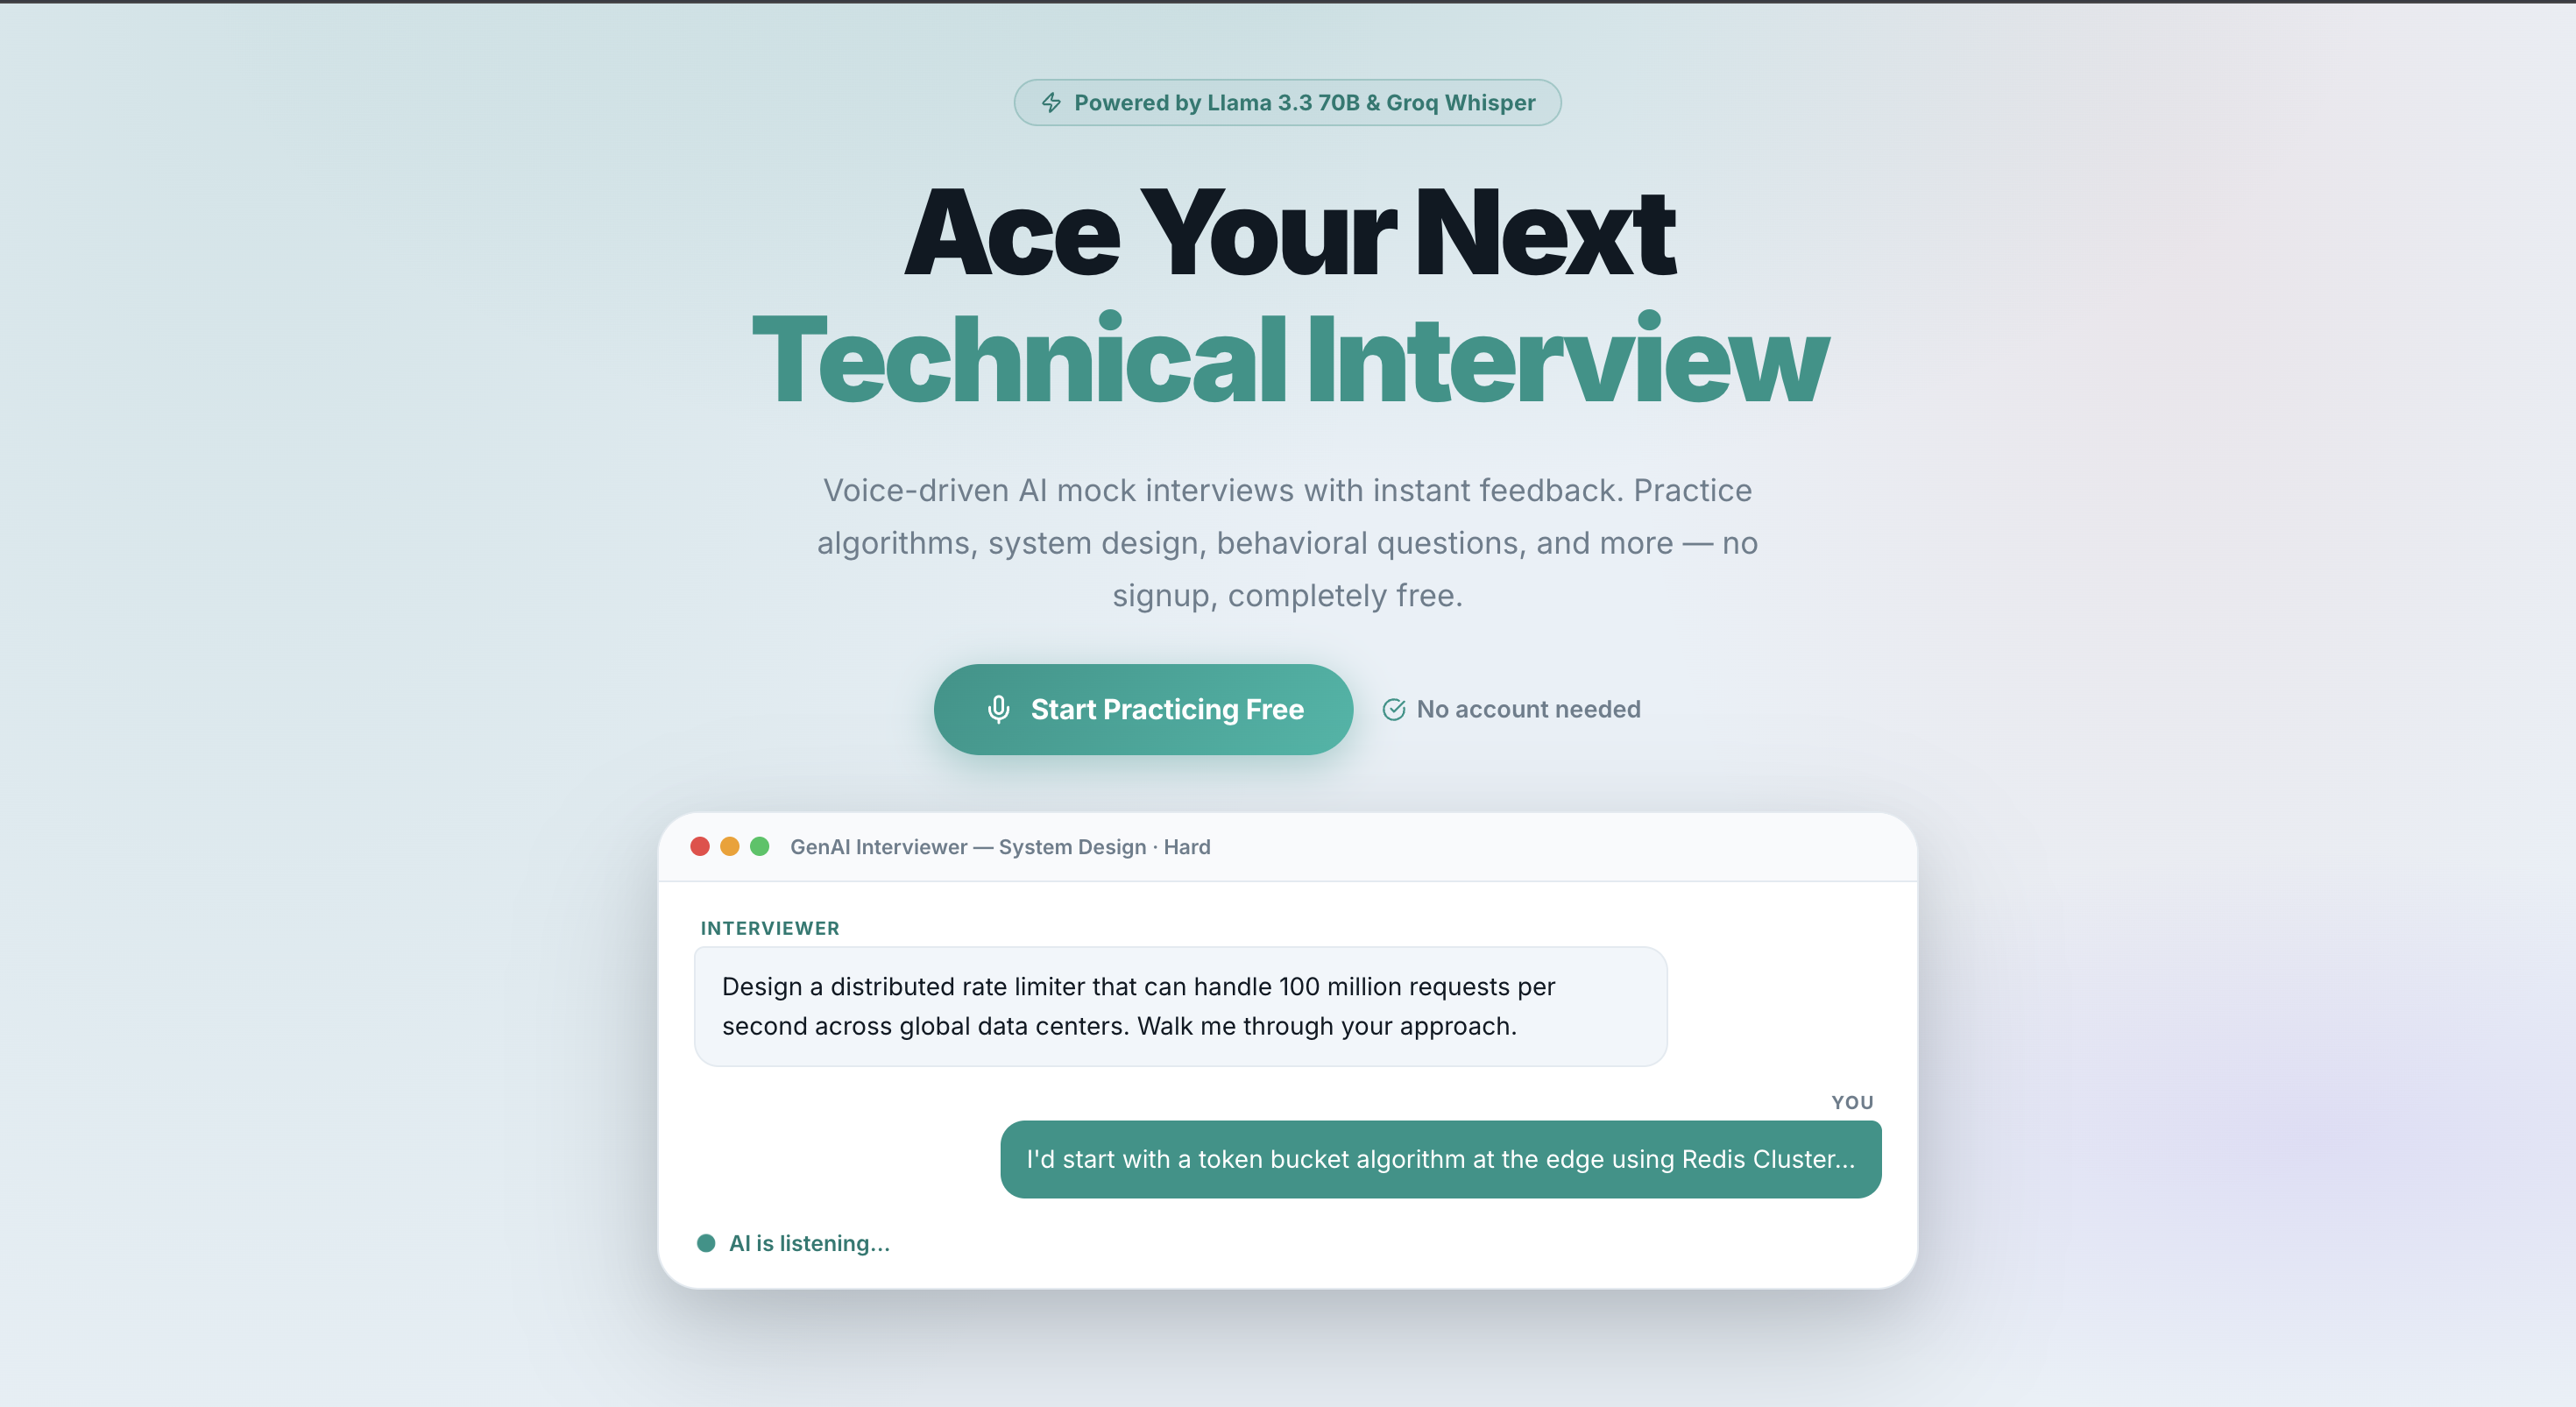
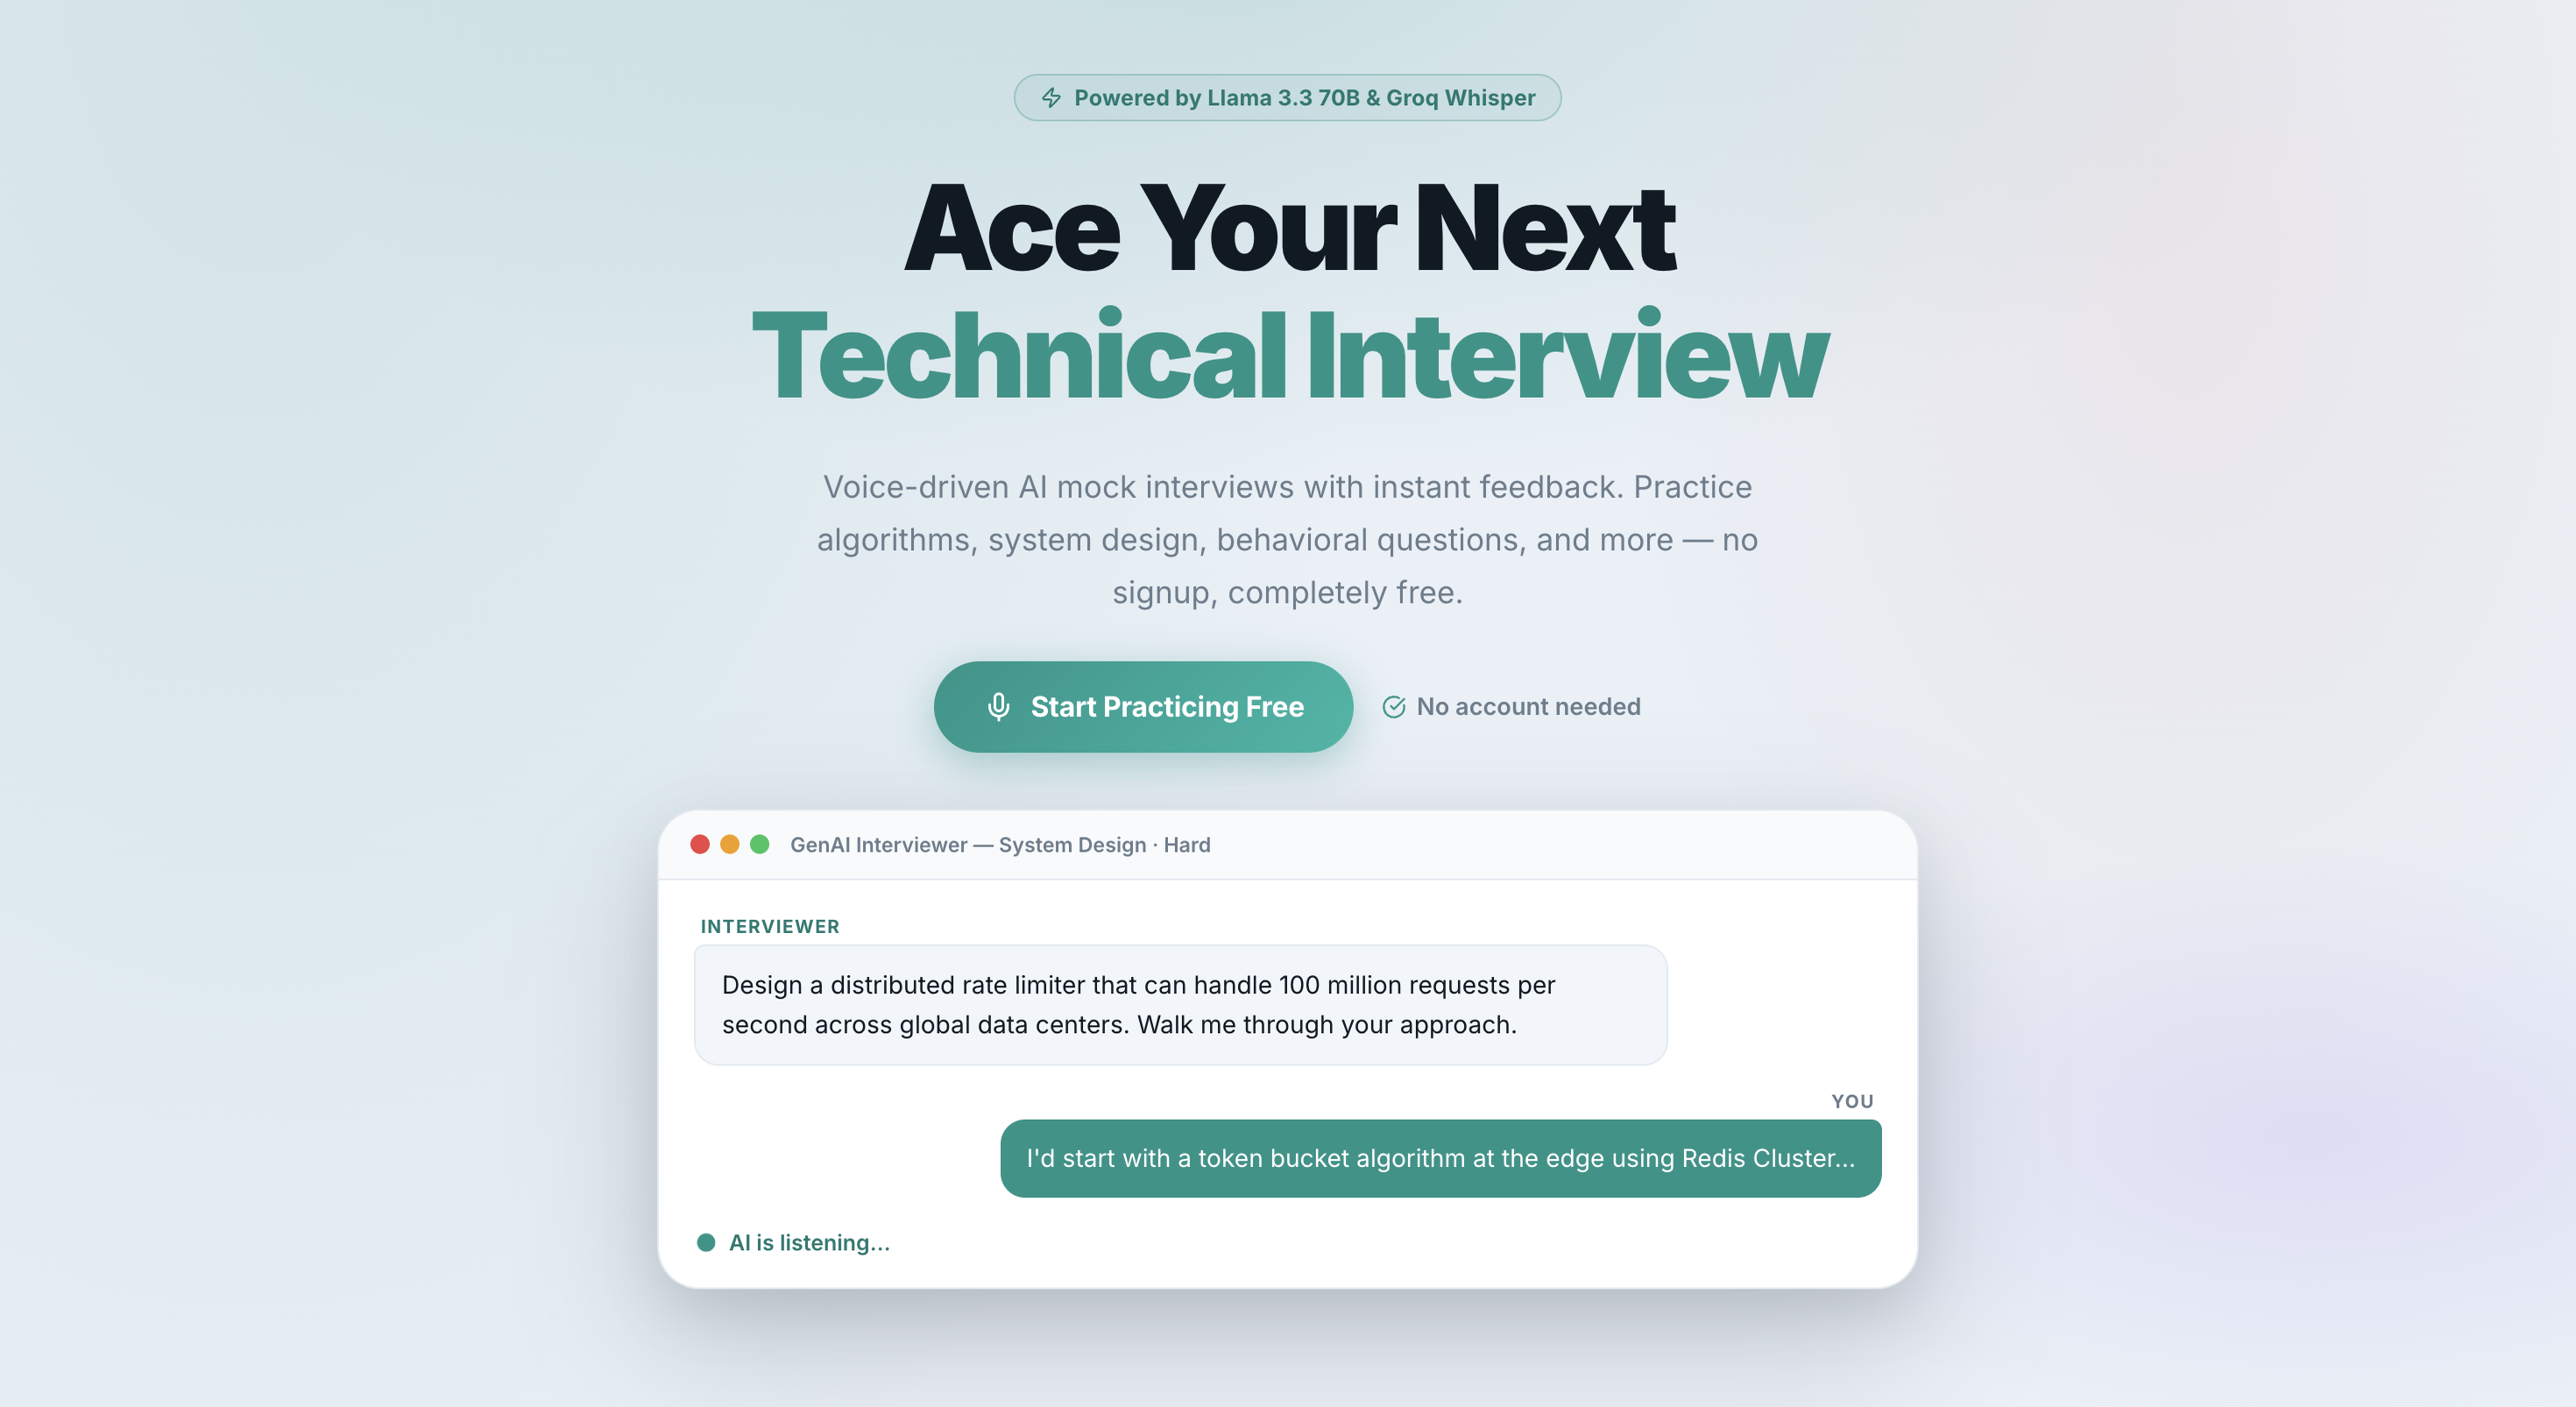
Update Nexus preview video and fix video/image zoom on Nexus & GenAI cards
- Replace Nexus preview.mp4 with new demo footage (converted from .mov)
- Zoom out Nexus and GenAI project videos to match their images
- Nudge GenAI preview down slightly and crop a stray dark line from its top edge

diff --git a/index.html b/index.html
@@ -818,6 +818,18 @@
       padding: .25rem .6rem;
     }
 
+    .project-item[data-href="https://supply-chain-visualizer.onrender.com/"] .project-img img,
+    .project-item[data-href="https://supply-chain-visualizer.onrender.com/"] .project-img video {
+      object-position: center top;
+      transform: scale(1);
+    }
+
+    .project-item[data-href="https://genai-technical-interviewer-1.onrender.com/"] .project-img img,
+    .project-item[data-href="https://genai-technical-interviewer-1.onrender.com/"] .project-img video {
+      object-position: center 54%;
+      transform: scale(1);
+    }
+
     .project-item[data-href="https://jetset-franchise-intelligence.onrender.com/"] .project-img img,
     .project-item[data-href="https://jetset-franchise-intelligence.onrender.com/"] .project-img video {
       object-position: center 30%;
@@ -1023,6 +1035,33 @@
     }
 
 
+    .proj-caption {
+      position: absolute;
+      bottom: 16rem;
+      right: -8.5rem;
+      font-family: Caveat, cursive;
+      font-size: 1.3rem;
+      color: var(--teal);
+      max-width: 9rem;
+      text-align: right;
+      line-height: 1.2;
+      pointer-events: none;
+      transform: rotate(4deg);
+    }
+
+    .proj-caption-arrow {
+      position: absolute;
+      bottom: 14.5rem;
+      right: -4.25rem;
+      width: 4.5rem;
+      height: 4.5rem;
+      object-fit: contain;
+      transform: rotate(-90deg);
+      filter: invert(58%) sepia(60%) saturate(400%) hue-rotate(130deg) brightness(45%);
+      pointer-events: none;
+    }
+
+
     /* ── CONTACT ── */
     #contact {
       background: #ffffff;
@@ -1107,18 +1146,12 @@
     }
 
     /* ── CONTACT ALT LINKS ── */
-    .contact-divider {
-      width: 6rem;
-      height: 1.5px;
-      background: var(--teal);
-      margin: 1.8rem auto 1.8rem;
-    }
-
     .contact-alt-links {
       display: flex;
       gap: 1.6rem;
       justify-content: center;
       align-items: center;
+      margin-top: 1.8rem;
     }
 
     .contact-alt-links a {
@@ -1398,6 +1431,8 @@
       .projects-featured-col { flex-direction: column; width: 100%; margin-left: 0; }
       .projects-small-grid { grid-template-columns: 1fr; }
       .proj-note { display: none; }
+      .proj-caption { display: none; }
+      .proj-caption-arrow { display: none; }
 
       #contact { padding-left: 1.5rem; padding-right: 1.5rem; }
       .project-actions { margin-top: .2rem; }
@@ -1563,8 +1598,8 @@
             <video src="media/nexus/preview.mp4" muted loop playsinline></video>
           </div>
           <div class="project-name">Nexus: Full-Stack Supply Chain Visualizer</div>
-          <div class="project-tags"><span class="project-tag">Full-Stack</span><span class="project-tag">REST API</span><span class="project-tag">JWT Auth</span><span class="project-tag">Docker</span></div>
-          <div class="project-desc">Supply chain platform with 25+ REST endpoints.</div>
+          <div class="project-tags"><span class="project-tag">Spring Boot</span><span class="project-tag">React</span><span class="project-tag">PostgreSQL</span><span class="project-tag">JWT Auth</span><span class="project-tag">Docker</span></div>
+          <div class="project-desc">Full-stack supply chain platform with 40+ REST endpoints.</div>
           <div class="project-actions">
             <a class="btn-proj" href="https://github.com/mariarodr1136/SupplyChainVisualizer" target="_blank" rel="noopener"><svg xmlns="http://www.w3.org/2000/svg" width="12" height="12" viewBox="0 0 24 24" fill="currentColor"><path d="M12 .297c-6.63 0-12 5.373-12 12 0 5.303 3.438 9.8 8.205 11.385.6.113.82-.258.82-.577 0-.285-.01-1.04-.015-2.04-3.338.724-4.042-1.61-4.042-1.61C4.422 18.07 3.633 17.7 3.633 17.7c-1.087-.744.084-.729.084-.729 1.205.084 1.838 1.236 1.838 1.236 1.07 1.835 2.809 1.305 3.495.998.108-.776.417-1.305.76-1.605-2.665-.3-5.466-1.332-5.466-5.93 0-1.31.465-2.38 1.235-3.22-.135-.303-.54-1.523.105-3.176 0 0 1.005-.322 3.3 1.23.96-.267 1.98-.399 3-.405 1.02.006 2.04.138 3 .405 2.28-1.552 3.285-1.23 3.285-1.23.645 1.653.24 2.873.12 3.176.765.84 1.23 1.91 1.23 3.22 0 4.61-2.805 5.625-5.475 5.92.42.36.81 1.096.81 2.22 0 1.606-.015 2.896-.015 3.286 0 .315.21.69.825.57C20.565 22.092 24 17.592 24 12.297c0-6.627-5.373-12-12-12"/></svg> Repo</a>
             <a class="btn-proj" href="https://supply-chain-visualizer.onrender.com/" target="_blank" rel="noopener">↗ Live Demo</a>
@@ -1577,8 +1612,8 @@
             <video src="media/genai/preview.mp4" muted loop playsinline></video>
           </div>
           <div class="project-name">GenAI: Voice AI Mock Interviewer</div>
-          <div class="project-tags"><span class="project-tag">Groq</span><span class="project-tag">Whisper v3</span><span class="project-tag">LLM Pipeline</span><span class="project-tag">Voice AI</span></div>
-          <div class="project-desc">AI mock interviews powered by Groq Whisper.</div>
+          <div class="project-tags"><span class="project-tag">Groq</span><span class="project-tag">Whisper Large v3</span><span class="project-tag">Qwen3.6-27B</span><span class="project-tag">React</span><span class="project-tag">Node/Express</span></div>
+          <div class="project-desc">Real-time mock interviews with streaming voice transcription and AI feedback.</div>
           <div class="project-actions">
             <a class="btn-proj" href="https://github.com/mariarodr1136/GenAI-Technical-Interviewer" target="_blank" rel="noopener"><svg xmlns="http://www.w3.org/2000/svg" width="12" height="12" viewBox="0 0 24 24" fill="currentColor"><path d="M12 .297c-6.63 0-12 5.373-12 12 0 5.303 3.438 9.8 8.205 11.385.6.113.82-.258.82-.577 0-.285-.01-1.04-.015-2.04-3.338.724-4.042-1.61-4.042-1.61C4.422 18.07 3.633 17.7 3.633 17.7c-1.087-.744.084-.729.084-.729 1.205.084 1.838 1.236 1.838 1.236 1.07 1.835 2.809 1.305 3.495.998.108-.776.417-1.305.76-1.605-2.665-.3-5.466-1.332-5.466-5.93 0-1.31.465-2.38 1.235-3.22-.135-.303-.54-1.523.105-3.176 0 0 1.005-.322 3.3 1.23.96-.267 1.98-.399 3-.405 1.02.006 2.04.138 3 .405 2.28-1.552 3.285-1.23 3.285-1.23.645 1.653.24 2.873.12 3.176.765.84 1.23 1.91 1.23 3.22 0 4.61-2.805 5.625-5.475 5.92.42.36.81 1.096.81 2.22 0 1.606-.015 2.896-.015 3.286 0 .315.21.69.825.57C20.565 22.092 24 17.592 24 12.297c0-6.627-5.373-12-12-12"/></svg> Repo</a>
             <a class="btn-proj" href="https://genai-technical-interviewer-1.onrender.com/" target="_blank" rel="noopener">↗ Live Demo</a>
@@ -1591,8 +1626,8 @@
             <video src="media/jetset/preview.mp4" muted loop playsinline></video>
           </div>
           <div class="project-name">JETSET: Franchise Intelligence Dashboard</div>
-          <div class="project-tags"><span class="project-tag">Gemini AI</span><span class="project-tag">SSE</span><span class="project-tag">Machine Learning</span></div>
-          <div class="project-desc">Real-time SSE dashboard with a churn model scoring 15K+ members.</div>
+          <div class="project-tags"><span class="project-tag">Next.js</span><span class="project-tag">Gemini 2.5 Flash</span><span class="project-tag">SSE</span><span class="project-tag">Prisma/SQLite</span><span class="project-tag">FTS5 Search</span></div>
+          <div class="project-desc">Real-time SSE dashboard with churn scoring (0.84 AUC) across 69 studios.</div>
           <div class="project-actions">
             <a class="btn-proj" href="https://github.com/mariarodr1136/JETSET-Franchise-Intelligence" target="_blank" rel="noopener"><svg xmlns="http://www.w3.org/2000/svg" width="12" height="12" viewBox="0 0 24 24" fill="currentColor"><path d="M12 .297c-6.63 0-12 5.373-12 12 0 5.303 3.438 9.8 8.205 11.385.6.113.82-.258.82-.577 0-.285-.01-1.04-.015-2.04-3.338.724-4.042-1.61-4.042-1.61C4.422 18.07 3.633 17.7 3.633 17.7c-1.087-.744.084-.729.084-.729 1.205.084 1.838 1.236 1.838 1.236 1.07 1.835 2.809 1.305 3.495.998.108-.776.417-1.305.76-1.605-2.665-.3-5.466-1.332-5.466-5.93 0-1.31.465-2.38 1.235-3.22-.135-.303-.54-1.523.105-3.176 0 0 1.005-.322 3.3 1.23.96-.267 1.98-.399 3-.405 1.02.006 2.04.138 3 .405 2.28-1.552 3.285-1.23 3.285-1.23.645 1.653.24 2.873.12 3.176.765.84 1.23 1.91 1.23 3.22 0 4.61-2.805 5.625-5.475 5.92.42.36.81 1.096.81 2.22 0 1.606-.015 2.896-.015 3.286 0 .315.21.69.825.57C20.565 22.092 24 17.592 24 12.297c0-6.627-5.373-12-12-12"/></svg> Repo</a>
             <a class="btn-proj" href="https://jetset-franchise-intelligence.onrender.com/" target="_blank" rel="noopener">↗ Live Demo</a>
@@ -1608,8 +1643,8 @@
             <video src="media/atmosphere/preview.mp4" muted loop playsinline></video>
           </div>
           <div class="project-name">Atmosphere: Real-Time AQI Monitor</div>
-          <div class="project-tags"><span class="project-tag">WebSockets</span><span class="project-tag">Redis</span><span class="project-tag">Anomaly Detection</span></div>
-          <div class="project-desc">Live AQI dashboard with WebSockets and anomaly detection.</div>
+          <div class="project-tags"><span class="project-tag">Django Channels</span><span class="project-tag">Redis</span><span class="project-tag">Z-Score Detection</span></div>
+          <div class="project-desc">Live weather &amp; AQI dashboard with z-score anomaly detection.</div>
           <div class="project-actions">
             <a class="btn-proj" href="https://github.com/mariarodr1136/AtmosphereAnalyzer" target="_blank" rel="noopener"><svg xmlns="http://www.w3.org/2000/svg" width="12" height="12" viewBox="0 0 24 24" fill="currentColor"><path d="M12 .297c-6.63 0-12 5.373-12 12 0 5.303 3.438 9.8 8.205 11.385.6.113.82-.258.82-.577 0-.285-.01-1.04-.015-2.04-3.338.724-4.042-1.61-4.042-1.61C4.422 18.07 3.633 17.7 3.633 17.7c-1.087-.744.084-.729.084-.729 1.205.084 1.838 1.236 1.838 1.236 1.07 1.835 2.809 1.305 3.495.998.108-.776.417-1.305.76-1.605-2.665-.3-5.466-1.332-5.466-5.93 0-1.31.465-2.38 1.235-3.22-.135-.303-.54-1.523.105-3.176 0 0 1.005-.322 3.3 1.23.96-.267 1.98-.399 3-.405 1.02.006 2.04.138 3 .405 2.28-1.552 3.285-1.23 3.285-1.23.645 1.653.24 2.873.12 3.176.765.84 1.23 1.91 1.23 3.22 0 4.61-2.805 5.625-5.475 5.92.42.36.81 1.096.81 2.22 0 1.606-.015 2.896-.015 3.286 0 .315.21.69.825.57C20.565 22.092 24 17.592 24 12.297c0-6.627-5.373-12-12-12"/></svg> Repo</a>
             <a class="btn-proj" href="https://atmosphere-analyzer-dashboard.onrender.com/" target="_blank" rel="noopener">↗ Live Demo</a>
@@ -1622,8 +1657,8 @@
             <video src="media/leafmedic/preview.mp4" muted loop playsinline></video>
           </div>
           <div class="project-name">LeafMedic: Plant Disease Classifier</div>
-          <div class="project-tags"><span class="project-tag">Raspberry Pi</span><span class="project-tag">TensorFlow Lite</span><span class="project-tag">Computer Vision</span></div>
-          <div class="project-desc">Real-time plant disease classifier on a Raspberry Pi.</div>
+          <div class="project-tags"><span class="project-tag">Raspberry Pi</span><span class="project-tag">TensorFlow Lite</span><span class="project-tag">MobileNetV1</span></div>
+          <div class="project-desc">Real-time 16-class disease classifier on a Raspberry Pi 4.</div>
           <div class="project-actions">
             <a class="btn-proj" href="https://github.com/mariarodr1136/LeafMedic" target="_blank" rel="noopener"><svg xmlns="http://www.w3.org/2000/svg" width="12" height="12" viewBox="0 0 24 24" fill="currentColor"><path d="M12 .297c-6.63 0-12 5.373-12 12 0 5.303 3.438 9.8 8.205 11.385.6.113.82-.258.82-.577 0-.285-.01-1.04-.015-2.04-3.338.724-4.042-1.61-4.042-1.61C4.422 18.07 3.633 17.7 3.633 17.7c-1.087-.744.084-.729.084-.729 1.205.084 1.838 1.236 1.838 1.236 1.07 1.835 2.809 1.305 3.495.998.108-.776.417-1.305.76-1.605-2.665-.3-5.466-1.332-5.466-5.93 0-1.31.465-2.38 1.235-3.22-.135-.303-.54-1.523.105-3.176 0 0 1.005-.322 3.3 1.23.96-.267 1.98-.399 3-.405 1.02.006 2.04.138 3 .405 2.28-1.552 3.285-1.23 3.285-1.23.645 1.653.24 2.873.12 3.176.765.84 1.23 1.91 1.23 3.22 0 4.61-2.805 5.625-5.475 5.92.42.36.81 1.096.81 2.22 0 1.606-.015 2.896-.015 3.286 0 .315.21.69.825.57C20.565 22.092 24 17.592 24 12.297c0-6.627-5.373-12-12-12"/></svg> Repo</a>
           </div>
@@ -1635,8 +1670,8 @@
             <video src="media/vestlab/preview.mp4" muted loop playsinline></video>
           </div>
           <div class="project-name">VestLab: Micro-Investment Platform</div>
-          <div class="project-tags"><span class="project-tag">React</span><span class="project-tag">Node/Express</span><span class="project-tag">MongoDB</span></div>
-          <div class="project-desc">Investment simulator built with React and MongoDB.</div>
+          <div class="project-tags"><span class="project-tag">React</span><span class="project-tag">Node/Express</span><span class="project-tag">MongoDB</span><span class="project-tag">Alpha Vantage API</span></div>
+          <div class="project-desc">Investment simulator with live Alpha Vantage market data.</div>
           <div class="project-actions">
             <a class="btn-proj" href="https://github.com/mariarodr1136/MicroInvestmentPlatform" target="_blank" rel="noopener"><svg xmlns="http://www.w3.org/2000/svg" width="12" height="12" viewBox="0 0 24 24" fill="currentColor"><path d="M12 .297c-6.63 0-12 5.373-12 12 0 5.303 3.438 9.8 8.205 11.385.6.113.82-.258.82-.577 0-.285-.01-1.04-.015-2.04-3.338.724-4.042-1.61-4.042-1.61C4.422 18.07 3.633 17.7 3.633 17.7c-1.087-.744.084-.729.084-.729 1.205.084 1.838 1.236 1.838 1.236 1.07 1.835 2.809 1.305 3.495.998.108-.776.417-1.305.76-1.605-2.665-.3-5.466-1.332-5.466-5.93 0-1.31.465-2.38 1.235-3.22-.135-.303-.54-1.523.105-3.176 0 0 1.005-.322 3.3 1.23.96-.267 1.98-.399 3-.405 1.02.006 2.04.138 3 .405 2.28-1.552 3.285-1.23 3.285-1.23.645 1.653.24 2.873.12 3.176.765.84 1.23 1.91 1.23 3.22 0 4.61-2.805 5.625-5.475 5.92.42.36.81 1.096.81 2.22 0 1.606-.015 2.896-.015 3.286 0 .315.21.69.825.57C20.565 22.092 24 17.592 24 12.297c0-6.627-5.373-12-12-12"/></svg> Repo</a>
             <a class="btn-proj" href="https://microinvestmentplatform-frontend.onrender.com/" target="_blank" rel="noopener">↗ Live Demo</a>
@@ -1645,6 +1680,8 @@
       </div><!-- end .projects-small-grid -->
 
       </div><!-- end .projects -->
+      <span class="proj-caption">the one<br>I'm proudest<br>of right now</span>
+      <img class="proj-caption-arrow" src="media/icons/arrow.png" alt="" aria-hidden="true" />
       <a class="more-projects" href="https://github.com/mariarodr1136" target="_blank" rel="noopener">More on GitHub →</a>
       </div><!-- end .projects-container -->
 
@@ -1666,7 +1703,6 @@
         <div class="form-row">
           <button class="btn btn-solid" onclick="goToEmail()">Next →</button>
         </div>
-        <div class="contact-divider"></div>
         <div class="contact-alt-links">
           <a href="Maria Rodriguez - Online Resume.pdf" download="Maria Rodriguez - Online Resume.pdf">
             <svg xmlns="http://www.w3.org/2000/svg" width="13" height="13" viewBox="0 0 24 24" fill="none" stroke="currentColor" stroke-width="2" stroke-linecap="round" stroke-linejoin="round"><path d="M21 15v4a2 2 0 0 1-2 2H5a2 2 0 0 1-2-2v-4"/><polyline points="7 10 12 15 17 10"/><line x1="12" y1="15" x2="12" y2="3"/></svg>